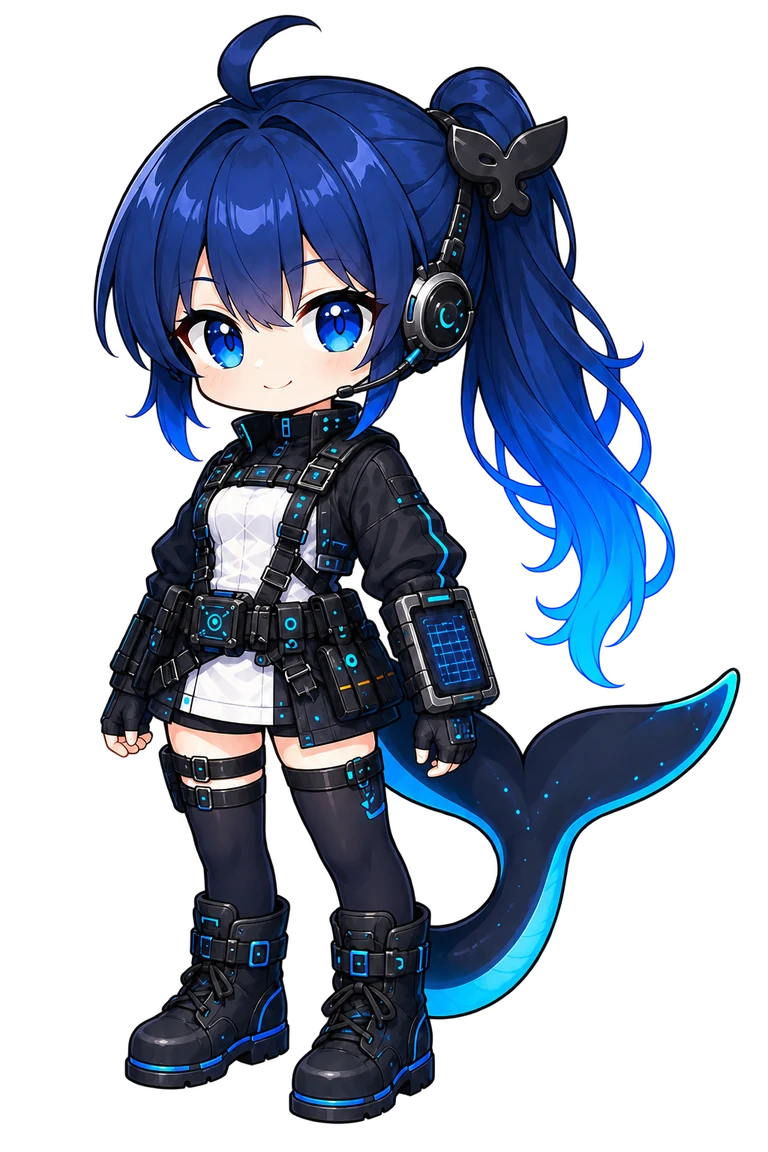
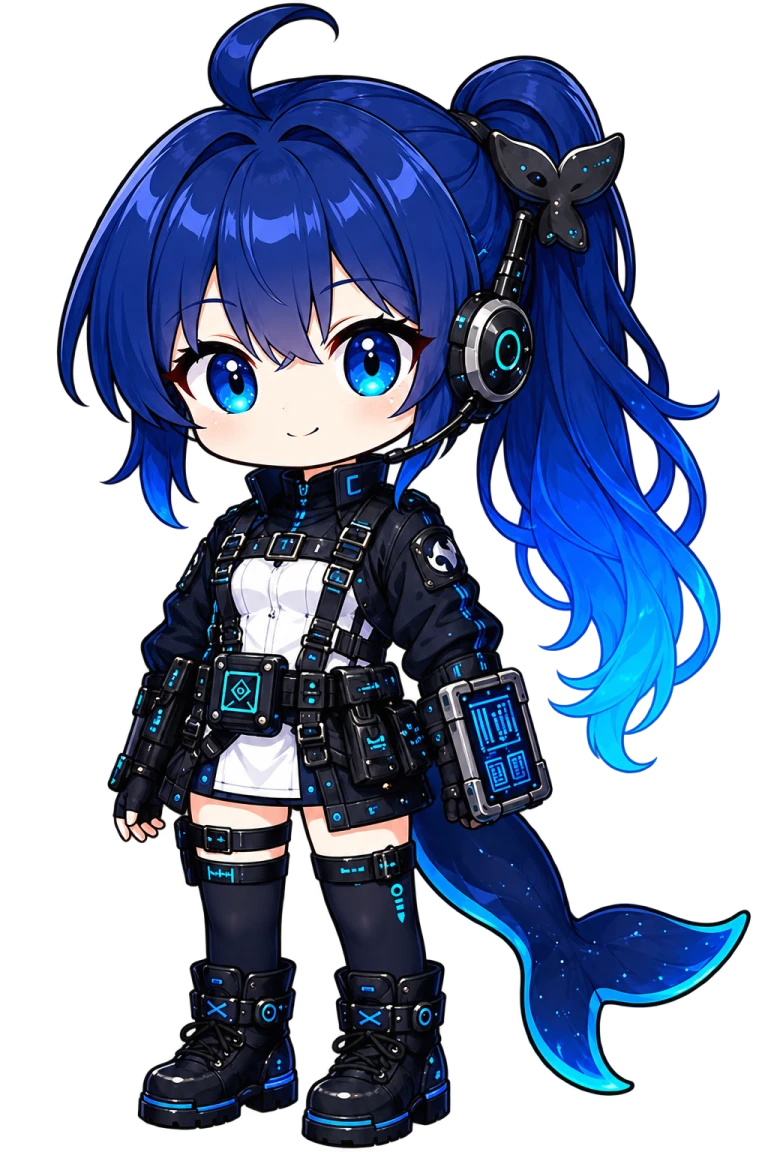
feat: refresh chibi artwork and rebuild skin previews
English:
- replace the launcher and DSH plugin chibi key art with the ChatGPT-redrawn v2 character
- retain the matching v2 character sheet and archived v1 artwork for provenance
- regenerate all five skin thumbnails with DSH WhaleConsole branding
- add a reproducible macOS thumbnail rendering workflow
- update bilingual artwork documentation, AI attribution, and changelogs
- verify desktop and narrow-screen layouts, tests, types, documentation, and builds

中文：
- 将启动器与 DSH 插件的Q版立绘替换为 ChatGPT 重绘的 v2 版本
- 保留配套 v2 人设图及归档 v1 素材，便于来源追溯与版本对比
- 重新生成五张皮肤缩略图，并统一使用 DSH WhaleConsole 品牌名称
- 新增可重复执行的 macOS 缩略图生成流程
- 更新中英文美术说明、AI 创作署名与更新日志
- 完成桌面及窄屏布局、测试、类型、文档和构建验证

diff --git a/scripts/render-skin-thumbnails.swift b/scripts/render-skin-thumbnails.swift
@@ -1,0 +1,317 @@
+#!/usr/bin/env swift
+
+import AppKit
+import Foundation
+
+private let canvasSize = NSSize(width: 1280, height: 720)
+private let root = URL(fileURLWithPath: FileManager.default.currentDirectoryPath)
+private let sourceDirectory = root.appendingPathComponent("packages/skins/assets/thumbnails/source")
+private let runtimeDirectory = root.appendingPathComponent("packages/skins/assets/thumbnails")
+
+private struct SkinPreview {
+    let id: String
+    let title: String
+    let kicker: String
+    let accent: String
+    let background: String
+    let panel: String
+    let panelStrong: String
+    let text: String
+    let muted: String
+    let characterPath: String
+    let secondaryCharacterPath: String?
+}
+
+private let previews = [
+    SkinPreview(
+        id: "harness-standard",
+        title: "鲸链工程师",
+        kicker: "WHALE ENGINEER",
+        accent: "#58D8FF",
+        background: "#101318",
+        panel: "#151922",
+        panelStrong: "#202735",
+        text: "#F4F7FB",
+        muted: "#8994A5",
+        characterPath: "apps/launcher/public/assets/harness-engineer.webp",
+        secondaryCharacterPath: nil
+    ),
+    SkinPreview(
+        id: "harness-medium",
+        title: "中号鲸链工程师",
+        kicker: "MEDIUM WHALE ENGINEER",
+        accent: "#4D6BFE",
+        background: "#101318",
+        panel: "#151922",
+        panelStrong: "#20273A",
+        text: "#F4F7FB",
+        muted: "#8994A5",
+        characterPath: "assets/skins/harness-engineer/harness-engineer-medium-delogo-v1.png",
+        secondaryCharacterPath: nil
+    ),
+    SkinPreview(
+        id: "harness-chibi",
+        title: "Q版鲸链工程师",
+        kicker: "CHIBI WHALE ENGINEER",
+        accent: "#38D8FF",
+        background: "#0B111A",
+        panel: "#131A24",
+        panelStrong: "#1D2B3A",
+        text: "#F4F9FF",
+        muted: "#8394A8",
+        characterPath: "assets/skins/harness-engineer/harness-engineer-chibi-keyart-v2.png",
+        secondaryCharacterPath: nil
+    ),
+    SkinPreview(
+        id: "maid-standard",
+        title: "深海女仆",
+        kicker: "DEEP SEA MAID",
+        accent: "#4F7FE8",
+        background: "#EDF5FF",
+        panel: "#F8FBFF",
+        panelStrong: "#E6EEFA",
+        text: "#17213A",
+        muted: "#6C7993",
+        characterPath: "apps/launcher/public/assets/deepsea-maid.webp",
+        secondaryCharacterPath: nil
+    ),
+    SkinPreview(
+        id: "dual-standard",
+        title: "双鲸协作",
+        kicker: "DUAL WHALE",
+        accent: "#6EDCD5",
+        background: "#10171A",
+        panel: "#151E22",
+        panelStrong: "#203035",
+        text: "#F4F8F7",
+        muted: "#849693",
+        characterPath: "apps/launcher/public/assets/harness-engineer.webp",
+        secondaryCharacterPath: "apps/launcher/public/assets/deepsea-maid.webp"
+    ),
+]
+
+private func color(_ hex: String, alpha: CGFloat = 1) -> NSColor {
+    let value = hex.trimmingCharacters(in: CharacterSet(charactersIn: "#"))
+    guard value.count == 6, let number = Int(value, radix: 16) else {
+        return NSColor.clear
+    }
+    return NSColor(
+        calibratedRed: CGFloat((number >> 16) & 0xFF) / 255,
+        green: CGFloat((number >> 8) & 0xFF) / 255,
+        blue: CGFloat(number & 0xFF) / 255,
+        alpha: alpha
+    )
+}
+
+private func roundedRect(_ rect: NSRect, radius: CGFloat, fill: NSColor, stroke: NSColor? = nil, width: CGFloat = 1) {
+    let path = NSBezierPath(roundedRect: rect, xRadius: radius, yRadius: radius)
+    fill.setFill()
+    path.fill()
+    if let stroke {
+        stroke.setStroke()
+        path.lineWidth = width
+        path.stroke()
+    }
+}
+
+private func line(from start: NSPoint, to end: NSPoint, color: NSColor, width: CGFloat = 1) {
+    let path = NSBezierPath()
+    path.move(to: start)
+    path.line(to: end)
+    path.lineWidth = width
+    color.setStroke()
+    path.stroke()
+}
+
+private func drawText(_ value: String, at point: NSPoint, size: CGFloat, color: NSColor, weight: NSFont.Weight = .regular, monospaced: Bool = false) {
+    let font = monospaced
+        ? NSFont.monospacedSystemFont(ofSize: size, weight: weight)
+        : NSFont.systemFont(ofSize: size, weight: weight)
+    (value as NSString).draw(at: point, withAttributes: [
+        .font: font,
+        .foregroundColor: color,
+    ])
+}
+
+private func image(at relativePath: String) -> NSImage {
+    let path = root.appendingPathComponent(relativePath).path
+    guard let image = NSImage(contentsOfFile: path) else {
+        fatalError("Unable to load image: \(relativePath)")
+    }
+    return image
+}
+
+private func aspectFit(_ image: NSImage, in bounds: NSRect) -> NSRect {
+    let scale = min(bounds.width / image.size.width, bounds.height / image.size.height)
+    let size = NSSize(width: image.size.width * scale, height: image.size.height * scale)
+    return NSRect(
+        x: bounds.midX - size.width / 2,
+        y: bounds.midY - size.height / 2,
+        width: size.width,
+        height: size.height
+    )
+}
+
+private func drawImage(_ image: NSImage, in bounds: NSRect, fraction: CGFloat = 1) {
+    image.draw(
+        in: aspectFit(image, in: bounds),
+        from: .zero,
+        operation: .sourceOver,
+        fraction: fraction,
+        respectFlipped: true,
+        hints: [.interpolation: NSImageInterpolation.high]
+    )
+}
+
+private final class ThumbnailView: NSView {
+    let preview: SkinPreview
+
+    init(preview: SkinPreview) {
+        self.preview = preview
+        super.init(frame: NSRect(origin: .zero, size: canvasSize))
+    }
+
+    required init?(coder: NSCoder) {
+        nil
+    }
+
+    override var isFlipped: Bool { true }
+
+    override func draw(_ dirtyRect: NSRect) {
+        super.draw(dirtyRect)
+
+        let background = color(preview.background)
+        let panel = color(preview.panel)
+        let strong = color(preview.panelStrong)
+        let accent = color(preview.accent)
+        let text = color(preview.text)
+        let muted = color(preview.muted)
+
+        background.setFill()
+        bounds.fill()
+
+        for x in stride(from: CGFloat(0), through: canvasSize.width, by: 52) {
+            line(from: NSPoint(x: x, y: 62), to: NSPoint(x: x, y: 678), color: muted.withAlphaComponent(0.13))
+        }
+        for y in stride(from: CGFloat(62), through: CGFloat(678), by: 52) {
+            line(from: NSPoint(x: 0, y: y), to: NSPoint(x: 1280, y: y), color: muted.withAlphaComponent(0.13))
+        }
+
+        background.withAlphaComponent(0.96).setFill()
+        NSRect(x: 0, y: 0, width: 1280, height: 62).fill()
+        NSRect(x: 0, y: 678, width: 1280, height: 42).fill()
+        line(from: NSPoint(x: 0, y: 61), to: NSPoint(x: 1280, y: 61), color: muted.withAlphaComponent(0.26))
+        line(from: NSPoint(x: 0, y: 678), to: NSPoint(x: 1280, y: 678), color: muted.withAlphaComponent(0.26))
+
+        accent.withAlphaComponent(0.24).setFill()
+        NSBezierPath(ovalIn: NSRect(x: 31, y: 22, width: 29, height: 16)).fill()
+        accent.setFill()
+        NSBezierPath(ovalIn: NSRect(x: 38, y: 20, width: 25, height: 19)).fill()
+        drawText("DSH WhaleConsole", at: NSPoint(x: 74, y: 18), size: 18, color: text, weight: .bold)
+        drawText("UNOFFICIAL COMMUNITY PREVIEW", at: NSPoint(x: 75, y: 39), size: 7, color: muted, weight: .semibold, monospaced: true)
+        accent.setFill()
+        NSBezierPath(ovalIn: NSRect(x: 1175, y: 27, width: 7, height: 7)).fill()
+        drawText("LOCAL WEBUI", at: NSPoint(x: 1188, y: 25), size: 8, color: muted, weight: .semibold, monospaced: true)
+
+        let characterBounds = NSRect(x: 30, y: 75, width: 370, height: 560)
+        drawImage(image(at: preview.characterPath), in: characterBounds)
+
+        if let secondaryPath = preview.secondaryCharacterPath {
+            let circle = NSRect(x: 282, y: 112, width: 235, height: 235)
+            NSGraphicsContext.saveGraphicsState()
+            NSBezierPath(ovalIn: circle).addClip()
+            strong.setFill()
+            circle.fill()
+            drawImage(image(at: secondaryPath), in: circle.insetBy(dx: 8, dy: 8))
+            NSGraphicsContext.restoreGraphicsState()
+            let outline = NSBezierPath(ovalIn: circle)
+            outline.lineWidth = 2
+            accent.setStroke()
+            outline.stroke()
+        }
+
+        accent.setFill()
+        NSRect(x: 38, y: 598, width: 54, height: 3).fill()
+        drawText(preview.kicker, at: NSPoint(x: 38, y: 608), size: 9, color: accent, weight: .bold, monospaced: true)
+        drawText(preview.title, at: NSPoint(x: 38, y: 630), size: 30, color: text, weight: .bold)
+
+        let app = NSRect(x: 430, y: 98, width: 802, height: 550)
+        roundedRect(app, radius: 7, fill: panel, stroke: muted.withAlphaComponent(0.32))
+        line(from: NSPoint(x: app.minX, y: 147), to: NSPoint(x: app.maxX, y: 147), color: muted.withAlphaComponent(0.3))
+        line(from: NSPoint(x: 620, y: 147), to: NSPoint(x: 620, y: app.maxY), color: muted.withAlphaComponent(0.3))
+
+        accent.setFill()
+        NSBezierPath(ovalIn: NSRect(x: 449, y: 113, width: 18, height: 18)).fill()
+        drawText("DSH Local Build", at: NSPoint(x: 477, y: 113), size: 14, color: text, weight: .semibold)
+        roundedRect(NSRect(x: 1164, y: 114, width: 51, height: 17), radius: 3, fill: strong, stroke: muted.withAlphaComponent(0.3))
+        drawText("PREVIEW", at: NSPoint(x: 1172, y: 117), size: 7, color: muted, weight: .bold, monospaced: true)
+
+        roundedRect(NSRect(x: 449, y: 165, width: 152, height: 39), radius: 4, fill: strong, stroke: muted.withAlphaComponent(0.28))
+        drawText("+", at: NSPoint(x: 475, y: 173), size: 17, color: text, weight: .regular)
+        drawText("New Session", at: NSPoint(x: 496, y: 175), size: 13, color: text, weight: .semibold)
+        drawText("WORKSPACES", at: NSPoint(x: 449, y: 226), size: 8, color: muted, weight: .bold, monospaced: true)
+        for (index, width) in [135, 96, 115].enumerated() {
+            roundedRect(NSRect(x: 449, y: 247 + CGFloat(index * 18), width: CGFloat(width), height: 6), radius: 3, fill: muted.withAlphaComponent(0.36))
+        }
+        roundedRect(NSRect(x: 449, y: 609, width: 19, height: 19), radius: 4, fill: accent.withAlphaComponent(0.18), stroke: accent)
+        drawText("WhaleConsole", at: NSPoint(x: 476, y: 609), size: 11, color: muted)
+
+        drawText("INTO THE UNKNOWN", at: NSPoint(x: 649, y: 173), size: 14, color: text, weight: .bold, monospaced: true)
+        roundedRect(NSRect(x: 794, y: 173, width: 55, height: 17), radius: 3, fill: strong)
+        drawText("Preview", at: NSPoint(x: 801, y: 176), size: 7, color: muted, weight: .semibold, monospaced: true)
+
+        roundedRect(NSRect(x: 649, y: 247, width: 294, height: 86), radius: 6, fill: strong, stroke: muted.withAlphaComponent(0.25))
+        accent.setFill()
+        NSBezierPath(ovalIn: NSRect(x: 666, y: 264, width: 24, height: 24)).fill()
+        roundedRect(NSRect(x: 702, y: 295, width: 199, height: 6), radius: 3, fill: muted.withAlphaComponent(0.35))
+        roundedRect(NSRect(x: 702, y: 310, width: 166, height: 6), radius: 3, fill: muted.withAlphaComponent(0.35))
+
+        roundedRect(NSRect(x: 911, y: 357, width: 294, height: 54), radius: 5, fill: accent.withAlphaComponent(0.2))
+        roundedRect(NSRect(x: 928, y: 375, width: 234, height: 6), radius: 3, fill: muted.withAlphaComponent(0.34))
+        roundedRect(NSRect(x: 928, y: 390, width: 166, height: 6), radius: 3, fill: muted.withAlphaComponent(0.34))
+
+        roundedRect(NSRect(x: 649, y: 560, width: 556, height: 62), radius: 6, fill: panel, stroke: accent.withAlphaComponent(0.75))
+        drawText("Choose a workspace to start", at: NSPoint(x: 667, y: 583), size: 11, color: muted)
+        accent.setFill()
+        NSBezierPath(ovalIn: NSRect(x: 1156, y: 573, width: 34, height: 34)).fill()
+        drawText("^", at: NSPoint(x: 1167, y: 579), size: 17, color: background, weight: .bold)
+
+        accent.setFill()
+        NSBezierPath(ovalIn: NSRect(x: 21, y: 696, width: 7, height: 7)).fill()
+        drawText("SKIN MANIFEST LINKED", at: NSPoint(x: 37, y: 694), size: 7, color: muted, weight: .semibold, monospaced: true)
+        drawText(preview.id, at: NSPoint(x: 1180, y: 694), size: 8, color: text, weight: .semibold, monospaced: true)
+    }
+}
+
+private func render(_ preview: SkinPreview) throws {
+    let view = ThumbnailView(preview: preview)
+    guard let representation = view.bitmapImageRepForCachingDisplay(in: view.bounds) else {
+        fatalError("Unable to create bitmap representation for \(preview.id)")
+    }
+    view.cacheDisplay(in: view.bounds, to: representation)
+    guard let png = representation.representation(using: .png, properties: [:]) else {
+        fatalError("Unable to encode PNG for \(preview.id)")
+    }
+
+    let pngURL = sourceDirectory.appendingPathComponent("\(preview.id).png")
+    try png.write(to: pngURL, options: .atomic)
+
+    let process = Process()
+    process.executableURL = URL(fileURLWithPath: "/usr/bin/env")
+    process.arguments = [
+        "cwebp", "-quiet", "-q", "88", "-metadata", "none",
+        pngURL.path, "-o", runtimeDirectory.appendingPathComponent("\(preview.id).webp").path,
+    ]
+    try process.run()
+    process.waitUntilExit()
+    guard process.terminationStatus == 0 else {
+        fatalError("cwebp failed for \(preview.id)")
+    }
+    print("Rendered \(preview.id)")
+}
+
+try FileManager.default.createDirectory(at: sourceDirectory, withIntermediateDirectories: true)
+try FileManager.default.createDirectory(at: runtimeDirectory, withIntermediateDirectories: true)
+for preview in previews {
+    try render(preview)
+}

diff --git a/docs/ARTWORK.md b/docs/ARTWORK.md
@@ -18,7 +18,13 @@ Source asset: `assets/skins/harness-engineer/harness-engineer-medium-delogo-v1.p
 
 A 2.5-to-3-head-tall Q/chibi form based on the whale-tail character sheet. It keeps the character's hairstyle, equipment silhouette, whale-tail hair ornament, normal human legs, and separate whale fluke while removing repeated logos, titles, and brand marks.
 
-Source asset: `assets/skins/harness-engineer/harness-engineer-chibi-delogo-v1.png`.
+The current runtime key art is based on the ChatGPT-redrawn v2 full-body illustration, with the matching v2 character sheet retained as a design reference. The earlier v1 cutout remains in the repository for provenance and comparison.
+
+Source assets:
+
+- `assets/skins/harness-engineer/harness-engineer-chibi-keyart-v2.png`
+- `assets/skins/harness-engineer/harness-engineer-chibi-character-sheet-v2.png`
+- `assets/skins/harness-engineer/harness-engineer-chibi-delogo-v1.png` (archived v1)
 
 ## Deep Sea Maid
 
@@ -34,6 +40,8 @@ The five skin cards use independent 1280x720 previews rendered from the real Wha
 
 PNG source masters are stored in `packages/skins/assets/thumbnails/source`. Runtime WebP files are stored one level above and are mapped by the shared skin registry's `thumbnailKey`.
 
-The original PNG generations for full-size character assets are retained outside the repository. Runtime copies are compressed WebP assets; Tauri icon derivatives are generated from the square source. The medium and chibi transparent PNG masters are retained under `assets/skins`, and thumbnail source masters are retained with the shared skin package.
+Run `pnpm artwork:thumbnails` on macOS to regenerate all five PNG masters and runtime WebP files from the shared WhaleConsole composition script.
+
+The original PNG generations for some full-size character assets are retained outside the repository. Runtime copies are compressed WebP assets; Tauri icon derivatives are generated from the square source. The medium and chibi PNG masters are retained under `assets/skins`, and thumbnail source masters are retained with the shared skin package.
 
 License: CC BY 4.0. Attribution: "DSH WhaleConsole contributors".

diff --git a/docs/ARTWORK.zh-CN.md b/docs/ARTWORK.zh-CN.md
@@ -18,7 +18,13 @@ Preview 包含多组 AI 辅助创作的原创素材，均未使用 DeepSeek 或 
 
 基于鲸尾版设定图制作的约 2.5 至 3 头身Q版形态。保留发型、装备轮廓、鲸尾形发饰、正常双腿和独立鲸尾，同时移除重复 Logo、标题文字与品牌标记。
 
-源素材：`assets/skins/harness-engineer/harness-engineer-chibi-delogo-v1.png`。
+当前运行时立绘采用 ChatGPT 重绘的 v2 全身图，并保留配套 v2 人设图作为后续视觉制作参考；早期 v1 抠图继续留在仓库中，用于来源追溯与版本对比。
+
+源素材：
+
+- `assets/skins/harness-engineer/harness-engineer-chibi-keyart-v2.png`
+- `assets/skins/harness-engineer/harness-engineer-chibi-character-sheet-v2.png`
+- `assets/skins/harness-engineer/harness-engineer-chibi-delogo-v1.png`（归档 v1）
 
 ## 深海女仆
 
@@ -34,6 +40,8 @@ Preview 包含多组 AI 辅助创作的原创素材，均未使用 DeepSeek 或 
 
 PNG 源母版保存在 `packages/skins/assets/thumbnails/source`，运行时 WebP 文件保存在上一级目录，并通过共用皮肤注册表中的 `thumbnailKey` 进行映射。
 
-全尺寸角色素材的原始 PNG 生成文件保留在仓库之外。运行时副本为压缩后的 WebP，Tauri 图标衍生文件由方形源图生成。中号与Q版透明 PNG 母版保存在 `assets/skins`，皮肤缩略图的源母版则随共用皮肤包保存。
+在 macOS 上运行 `pnpm artwork:thumbnails`，可以通过共用的 WhaleConsole 构图脚本重新生成五张 PNG 母版和运行时 WebP 文件。
+
+部分全尺寸角色素材的原始 PNG 生成文件保留在仓库之外。运行时副本为压缩后的 WebP，Tauri 图标衍生文件由方形源图生成。中号与Q版 PNG 母版保存在 `assets/skins`，皮肤缩略图的源母版则随共用皮肤包保存。
 
 许可证：CC BY 4.0。署名方式：`DSH WhaleConsole contributors`。

diff --git a/CHANGELOG.md b/CHANGELOG.md
@@ -7,6 +7,7 @@ English | [简体中文](CHANGELOG.zh-CN.md)
 - Established the public project identity as DSH WhaleConsole before the first source release.
 - Added one fixed 16:9 WebUI thumbnail to each of the five launcher and plugin skin cards.
 - Rendered the previews from the real WhaleConsole interface styles and matching original character artwork.
+- Replaced the chibi runtime key art with the ChatGPT-redrawn v2 character, retained its matching character sheet, and added a reproducible macOS thumbnail renderer.
 - Added GitHub Actions CI, Dependabot, bilingual issue and pull request templates, and release documentation.
 - Added bilingual AI-assisted creation disclosures to the repository and distributable plugin package.
 - Added bilingual source-install documents, an Agent installation Skill, and a progressively disclosed runbook.

diff --git a/CHANGELOG.zh-CN.md b/CHANGELOG.zh-CN.md
@@ -7,6 +7,7 @@
 - 在首次源码发布前确定公开项目名为 DSH WhaleConsole（DSH 鲸控台）。
 - 为启动器与插件的五张皮肤卡片分别新增固定的 16:9 WebUI 缩略图。
 - 使用实际 WhaleConsole 界面样式和对应原创角色素材渲染预览图。
+- 将Q版运行时立绘替换为 ChatGPT 重绘的 v2 角色图，保留配套人设图，并新增可重复执行的 macOS 缩略图生成器。
 - 新增 GitHub Actions CI、Dependabot、中英文 Issue/PR 模板与发布文档。
 - 在源码仓库与可分发插件包中新增中英文 AI 辅助创作声明。
 - 新增中英文源码安装文档、Agent 安装 Skill 与按需加载的详细操作规程。
